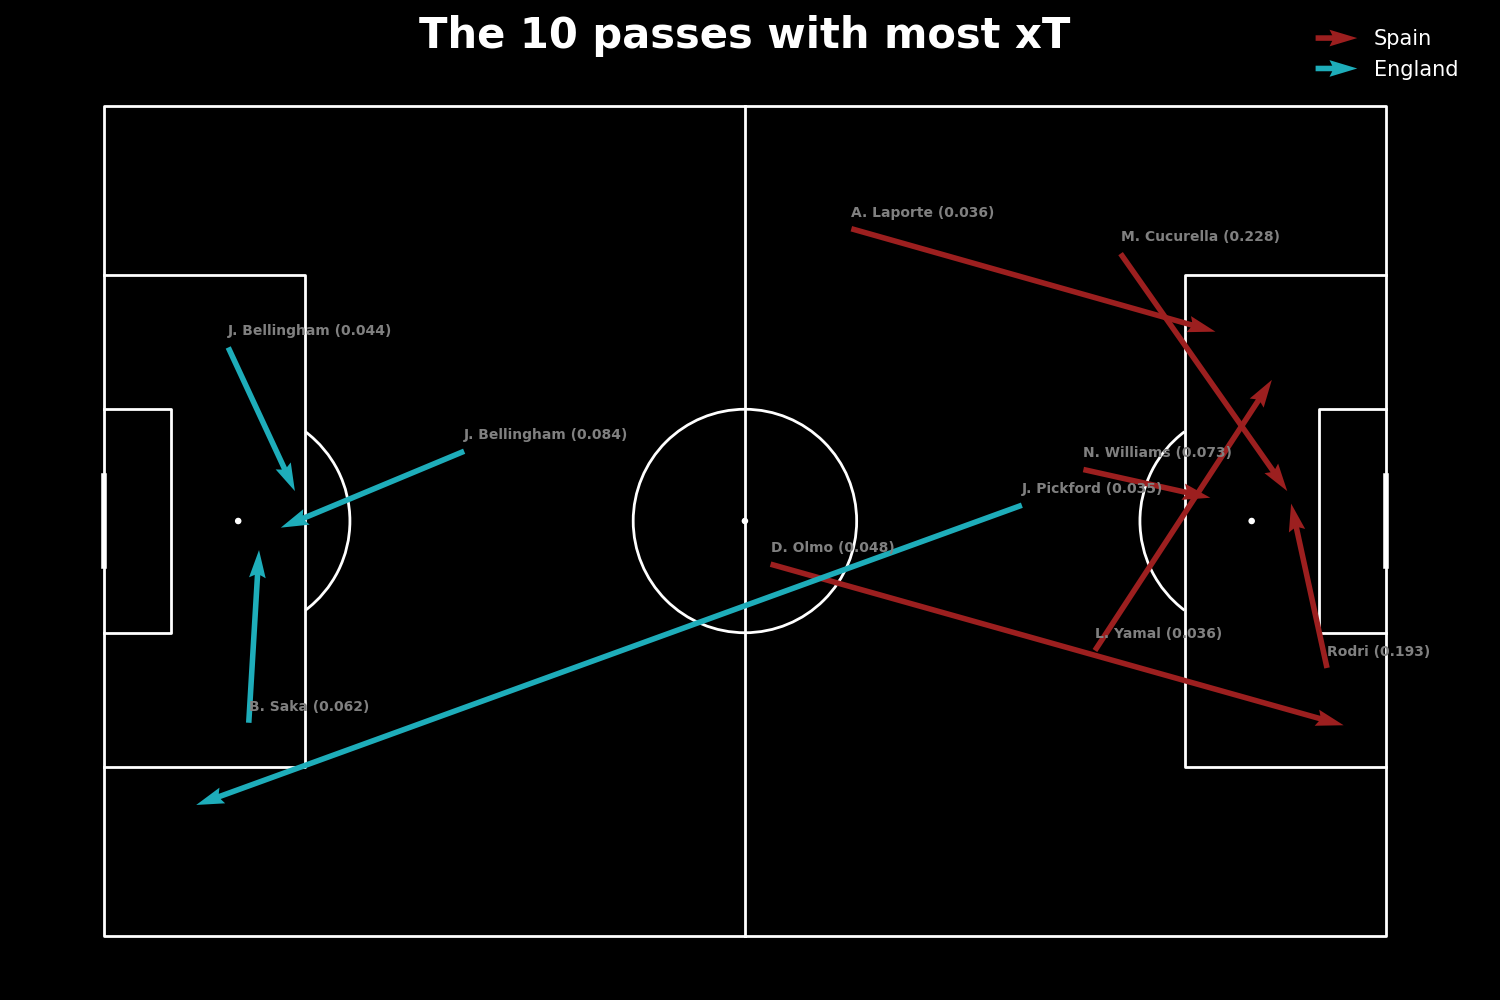
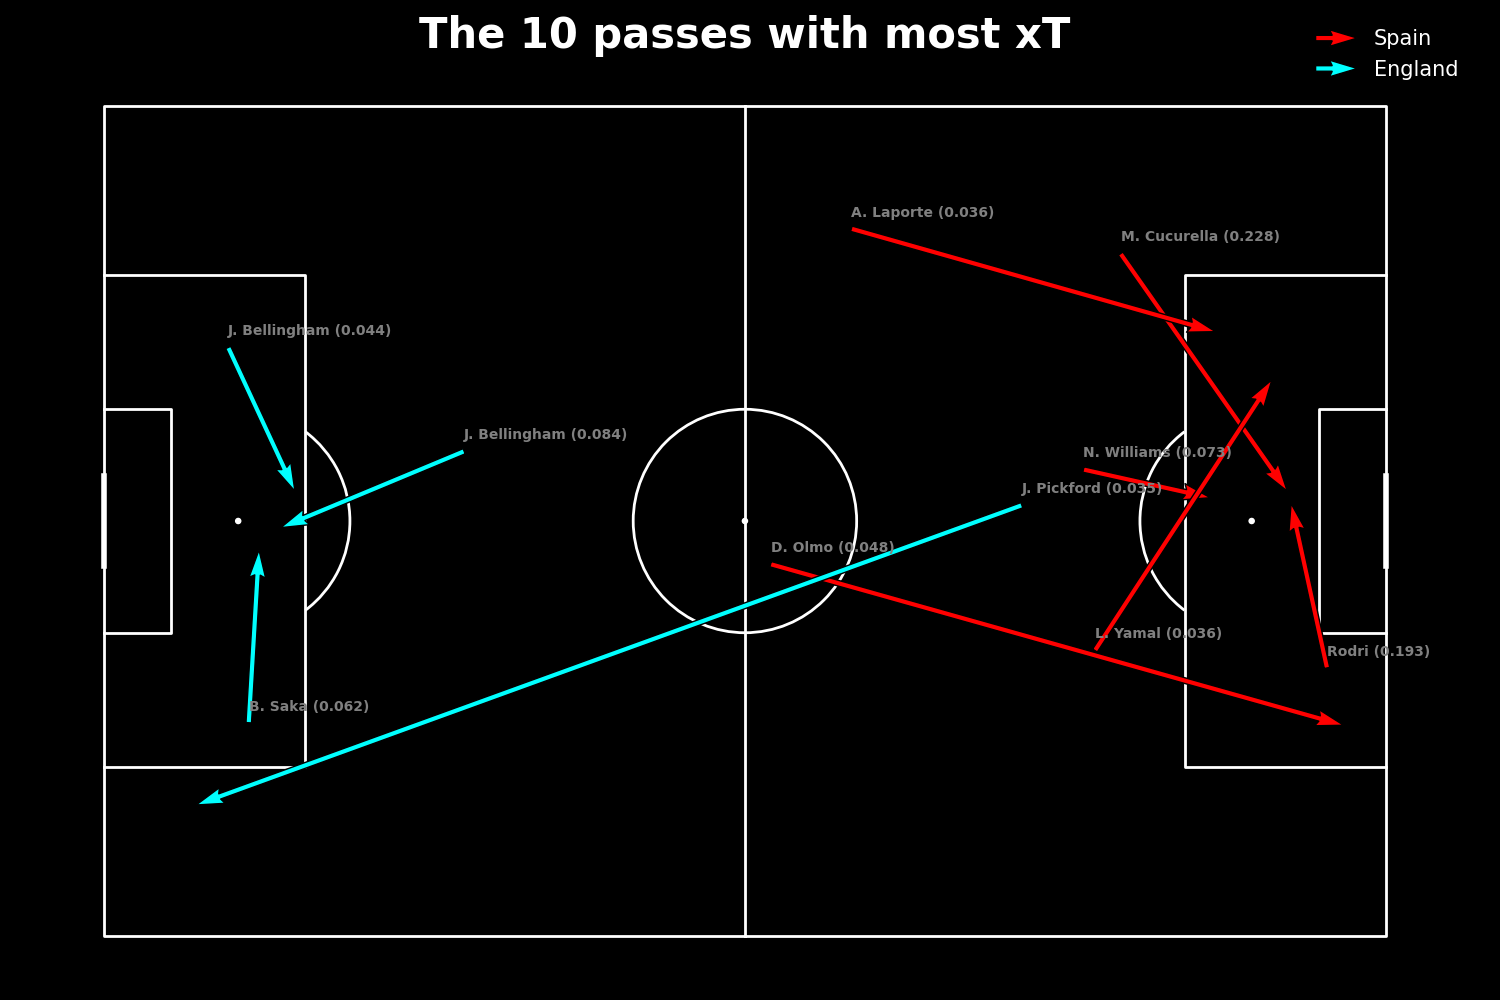
xT passes and positional xT

diff --git a/SpainEnglandVizPython/topxTPassesByTeam.py b/SpainEnglandVizPython/topxTPassesByTeam.py
@@ -1,0 +1,49 @@
+import mplsoccer
+import pandas as pd
+import numpy as np
+import matplotlib.pyplot as plt
+import seaborn as sns
+
+
+df = pd.read_csv("EurosFinal2024-Spain v England.csv")
+
+df_xT = df.loc[:, ['Unnamed: 0', 'xT', 'shortName', 'x', 'y', 'endX', 'endY', 'expandedMinute', 'second', 'teamName', 'type']]
+
+df_xT.dropna(inplace=True)
+df_xTSpain = df_xT.groupby('teamName').get_group('Spain')
+df_xTEngland = df_xT.groupby('teamName').get_group('England')
+
+
+df_xTSpainGT0 = df_xTSpain.loc[(df_xTSpain.xT > 0.02), :]
+
+pitch = mplsoccer.Pitch(pitch_type='uefa', pitch_color='black', line_color='white')
+fig, ax = pitch.draw(figsize=(15, 10))
+fig.set_facecolor('black')
+
+pitch.arrows(df_xTSpainGT0.x, df_xTSpainGT0.y, df_xTSpainGT0.endX, df_xTSpainGT0.endY,
+             ax=ax, color='red', linewidth=1, edgecolor='black')
+
+for i, row in df_xTSpainGT0.iterrows():
+    ax.annotate(row.shortName + ' ' + str(round(row.xT, 3)), (row.x, row.y),
+                color='grey', fontweight='bold')
+
+plt.title('Spain passes with an xT superior to .02', fontweight='bold', color='white', fontsize=20)
+
+plt.show()
+
+df_xTEnglandGT0 = df_xTEngland.loc[df_xTEngland.xT > 0.02, :]
+
+pitch = mplsoccer.Pitch(pitch_type='uefa', pitch_color='black', line_color='white')
+fig, ax = pitch.draw(figsize=(15, 10))
+fig.set_facecolor('black')
+
+pitch.arrows(df_xTEnglandGT0.x, df_xTEnglandGT0.y, df_xTEnglandGT0.endX, df_xTEnglandGT0.endY,
+             ax=ax, color='cyan', linewidth=1, edgecolor='black')
+
+for i, row in df_xTEnglandGT0.iterrows():
+    ax.annotate(row.shortName + ' ' + str(round(row.xT, 3)), (row.x, row.y),
+                color='grey', fontweight='bold')
+
+plt.title('England passes with an xT superior to .02', fontweight='bold', color='white', fontsize=20)
+
+plt.show()

diff --git a/SpainEnglandVizPython/xTEvolution.py b/SpainEnglandVizPython/xTEvolution.py
@@ -3,7 +3,7 @@ import pandas as pd
 import numpy as np
 import matplotlib.pyplot as plt
 import seaborn as sns
-from matplotlib.pyplot import legend
+from mplsoccer import arrowhead_marker
 
 sc = "#9c1f1f" # spain color
 ec = "#1eadba" # england color
@@ -69,12 +69,12 @@ pitch.arrows(df_top10xT.groupby('teamName').get_group('Spain').x,
              df_top10xT.groupby('teamName').get_group('Spain').y,
              df_top10xT.groupby('teamName').get_group('Spain').endX,
              df_top10xT.groupby('teamName').get_group('Spain').endY,
-             ax=ax, color=sc, label = 'Spain')
+             ax=ax, color='red', label = 'Spain', lw=1, edgecolor='black')
 pitch.arrows(105-df_top10xT.groupby('teamName').get_group('England').x,
              df_top10xT.groupby('teamName').get_group('England').y,
              105-df_top10xT.groupby('teamName').get_group('England').endX,
              df_top10xT.groupby('teamName').get_group('England').endY,
-             ax=ax, color=ec, label = 'England')
+             ax=ax, color='cyan', label = 'England', lw=1, edgecolor='black')
 
 
 
@@ -94,6 +94,10 @@ legend.get_frame().set_alpha(None)
 legend.get_frame().set_facecolor((0, 0, 0, 0))
 plt.title('The 10 passes with most xT', fontsize = 30, fontweight = 'bold', color = 'white')
 plt.show()
+
+
+
+
 
 
 

diff --git a/SpainEnglandVizPython/BestxTPlayerByZone.py b/SpainEnglandVizPython/BestxTPlayerByZone.py
@@ -1,0 +1,31 @@
+import mplsoccer
+import pandas as pd
+import numpy as np
+import matplotlib.pyplot as plt
+import cmasher as cmr
+
+
+df = pd.read_csv("EurosFinal2024-Spain v England.csv")
+df = df.loc[:, ['expandedMinute', 'second', 'type',
+                'outcomeType', 'shortName', 'xT',
+                'x', 'y', 'endX', 'endY', 'teamName']]
+
+df.dropna(inplace=True)
+df.xT = df.xT.apply(lambda x: round(x, 3))
+spain_totalxT = df.groupby('teamName').get_group('England').xT.sum()
+
+df = df.groupby('teamName').get_group("England")
+
+
+pitch = mplsoccer.Pitch(pitch_type='uefa', positional=True, pitch_color='black', line_color='black', line_zorder=2)
+fig, ax = pitch.draw(figsize=(15, 10))
+fig.set_facecolor('black')
+
+stats = pitch.bin_statistic_positional(df.x, df.y, df.xT, statistic='sum')
+pitch.heatmap_positional(stats, ax=ax, cmap='coolwarm', edgecolors='black')
+labels = pitch.label_heatmap(stats, color='black', fontsize=18,
+                             ax=ax, ha='center', va='center', str_format='{:0.00}')
+
+plt.title('England total xT per zone', fontweight='bold', c='white', fontsize=20)
+
+plt.show()
